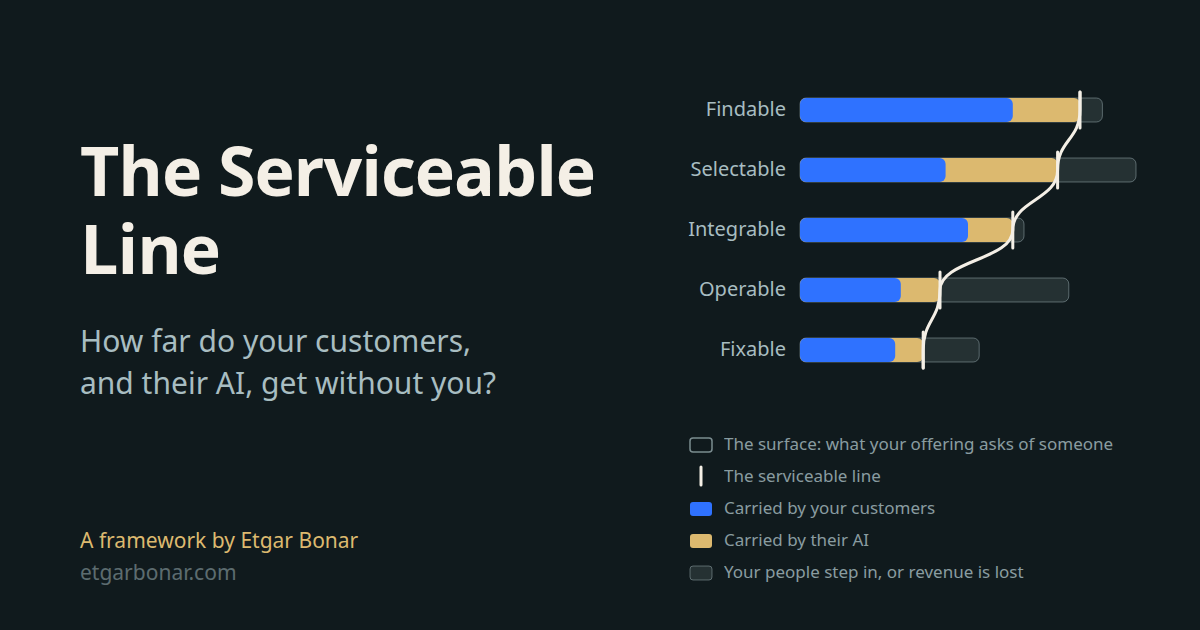
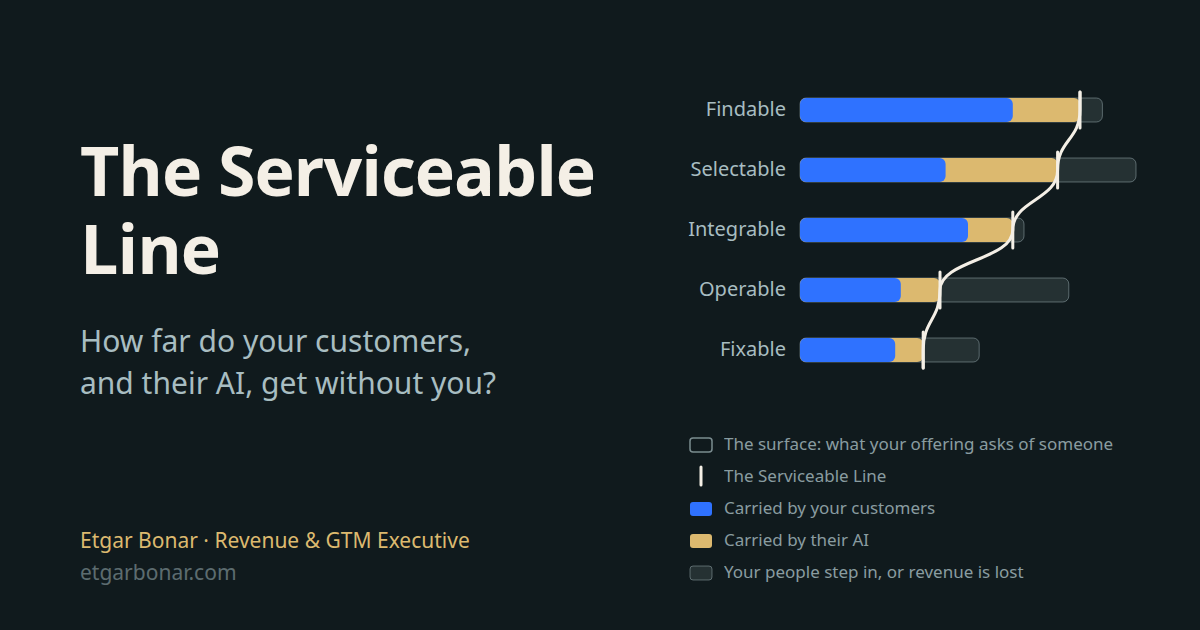
Update Serviceable Line social card

Changed region(s): [[0.0617, 0.8444, 0.4008, 0.8746], [0.6167, 0.7238, 0.74, 0.7841]]

diff --git a/serviceable-line/index.html b/serviceable-line/index.html
@@ -22,15 +22,15 @@
   <meta property="article:published_time" content="2026-08-29">
   <meta property="article:modified_time" content="2026-10-11">
   <meta property="og:site_name" content="Etgar Bonar">
-  <meta property="og:title" content="Most Companies Are Making This Revenue Decision in Fragments">
-  <meta property="og:description" content="Each function owns a piece of how far customers and their AI can get. That makes the end-to-end line easy to miss, along with the revenue opportunity and risk across it.">
+  <meta property="og:title" content="Your Customers' AI May Get Farther With a Competitor">
+  <meta property="og:description" content="The Serviceable Line is how far your customers, and increasingly their AI, get with your offering on their own. Against a competitor's, the gap is revenue at risk or available to win.">
   <meta property="og:url" content="https://etgarbonar.com/serviceable-line/">
-  <meta property="og:image" content="https://etgarbonar.com/assets/serviceable-line-card.png?v=18">
-  <meta property="og:image:alt" content="The Serviceable Line: How far do your customers, and their AI, get without you? Five bars, one per layer: Findable, Selectable, Integrable, Operable and Fixable, each as long as what the offering asks on that layer. A connected white line through five marks is the Serviceable Line: how far your customers and their AI get on that layer on their own. Past it, your people step in or revenue is lost. Blue is what customers carry; gold on all five layers is what their AI carries, and the marks sit at its end. A framework by Etgar Bonar">
+  <meta property="og:image" content="https://etgarbonar.com/assets/serviceable-line-card.png?v=19">
+  <meta property="og:image:alt" content="The Serviceable Line: How far do your customers, and their AI, get without you? Five bars, one per layer: Findable, Selectable, Integrable, Operable and Fixable, each as long as what the offering asks on that layer. A connected white line through five marks is the Serviceable Line: how far your customers and their AI get on that layer on their own. Past it, your people step in or revenue is lost. Blue is what customers carry; gold on all five layers is what their AI carries, and the marks sit at its end. By Etgar Bonar, Revenue &amp; GTM Executive">
   <meta name="twitter:card" content="summary_large_image">
-  <meta name="twitter:title" content="Most Companies Are Making This Revenue Decision in Fragments">
-  <meta name="twitter:description" content="Each function owns a piece of how far customers and their AI can get. That makes the end-to-end line easy to miss, along with the revenue opportunity and risk across it.">
-  <meta name="twitter:image" content="https://etgarbonar.com/assets/serviceable-line-card.png?v=18">
+  <meta name="twitter:title" content="Your Customers' AI May Get Farther With a Competitor">
+  <meta name="twitter:description" content="The Serviceable Line is how far your customers, and increasingly their AI, get with your offering on their own. Against a competitor's, the gap is revenue at risk or available to win.">
+  <meta name="twitter:image" content="https://etgarbonar.com/assets/serviceable-line-card.png?v=19">
   <script type="application/ld+json">
   {
     "@context": "https://schema.org",

diff --git a/scripts/build-line-shapes.py b/scripts/build-line-shapes.py
@@ -373,7 +373,7 @@ def main_card():
     service_line = f'  <path d="{curve_path(marks, 24)}" fill="none" stroke="{PAPER}" stroke-width="3" stroke-linecap="round" stroke-linejoin="round"/>'
     body = "\n".join(["  " + r for r in rows] + [service_line,
         legend_row(690, 450, "surface", "The surface: what your offering asks of someone"),
-        legend_row(690, 482, "mark", "The serviceable line"),
+        legend_row(690, 482, "mark", "The Serviceable Line"),
         legend_row(690, 514, "line", "Carried by your customers"),
         legend_row(690, 546, "ai", "Carried by their AI"),
         legend_row(690, 578, "gap", "Your people step in, or revenue is lost"),
@@ -381,14 +381,14 @@ def main_card():
         f'  <text x="80" y="274" {FONT} font-size="68" font-weight="700" letter-spacing="-1" fill="{PAPER}">Line</text>',
         f'  <text x="80" y="352" {FONT} font-size="30" fill="{MINT}">How far do your customers,</text>',
         f'  <text x="80" y="394" {FONT} font-size="30" fill="{MINT}">and their AI, get without you?</text>',
-        f'  <text x="80" y="548" {FONT} font-size="21" fill="{GOLD}">A framework by Etgar Bonar</text>',
+        f'  <text x="80" y="548" {FONT} font-size="21" fill="{GOLD}">Etgar Bonar · Revenue &amp; GTM Executive</text>',
         f'  <text x="80" y="580" {FONT} font-size="21" fill="{MINT}" opacity=".5">etgarbonar.com</text>',
     ])
     return card_svg("The Serviceable Line",
                     "Five bars, one per layer: Findable, Selectable, Integrable, Operable and Fixable, each as long as what the offering asks on that layer. A connected white line through the marks "
                     "is the Serviceable Line: how far your customers and their AI get on that layer on their own. Past it, your people step in "
                     "or revenue is lost. Blue is what customers carry; gold on all five layers is what their AI carries, and the mark sits at its end. "
-                    "How far do your customers, and their AI, get without you? A framework by Etgar Bonar.", body)
+                    "How far do your customers, and their AI, get without you? By Etgar Bonar, Revenue &amp; GTM Executive.", body)
 
 
 def shapes_card():
